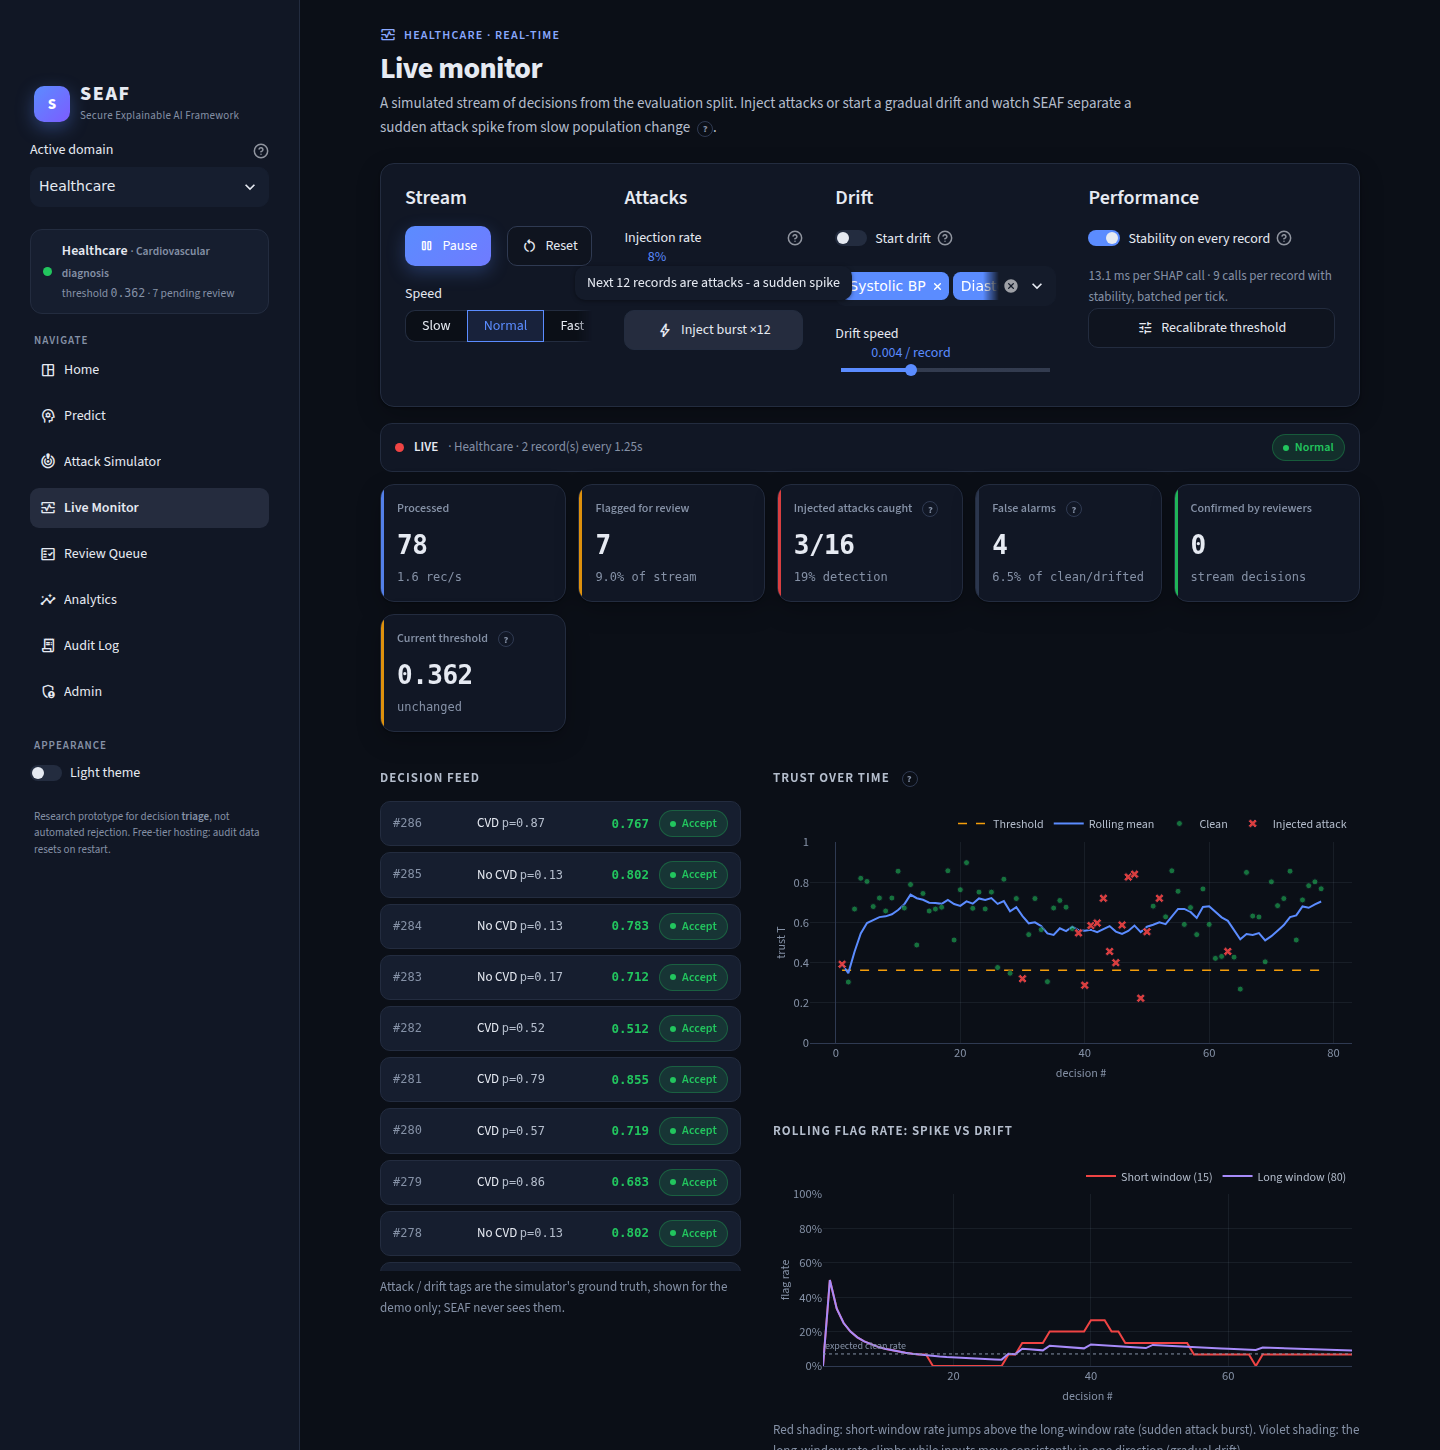
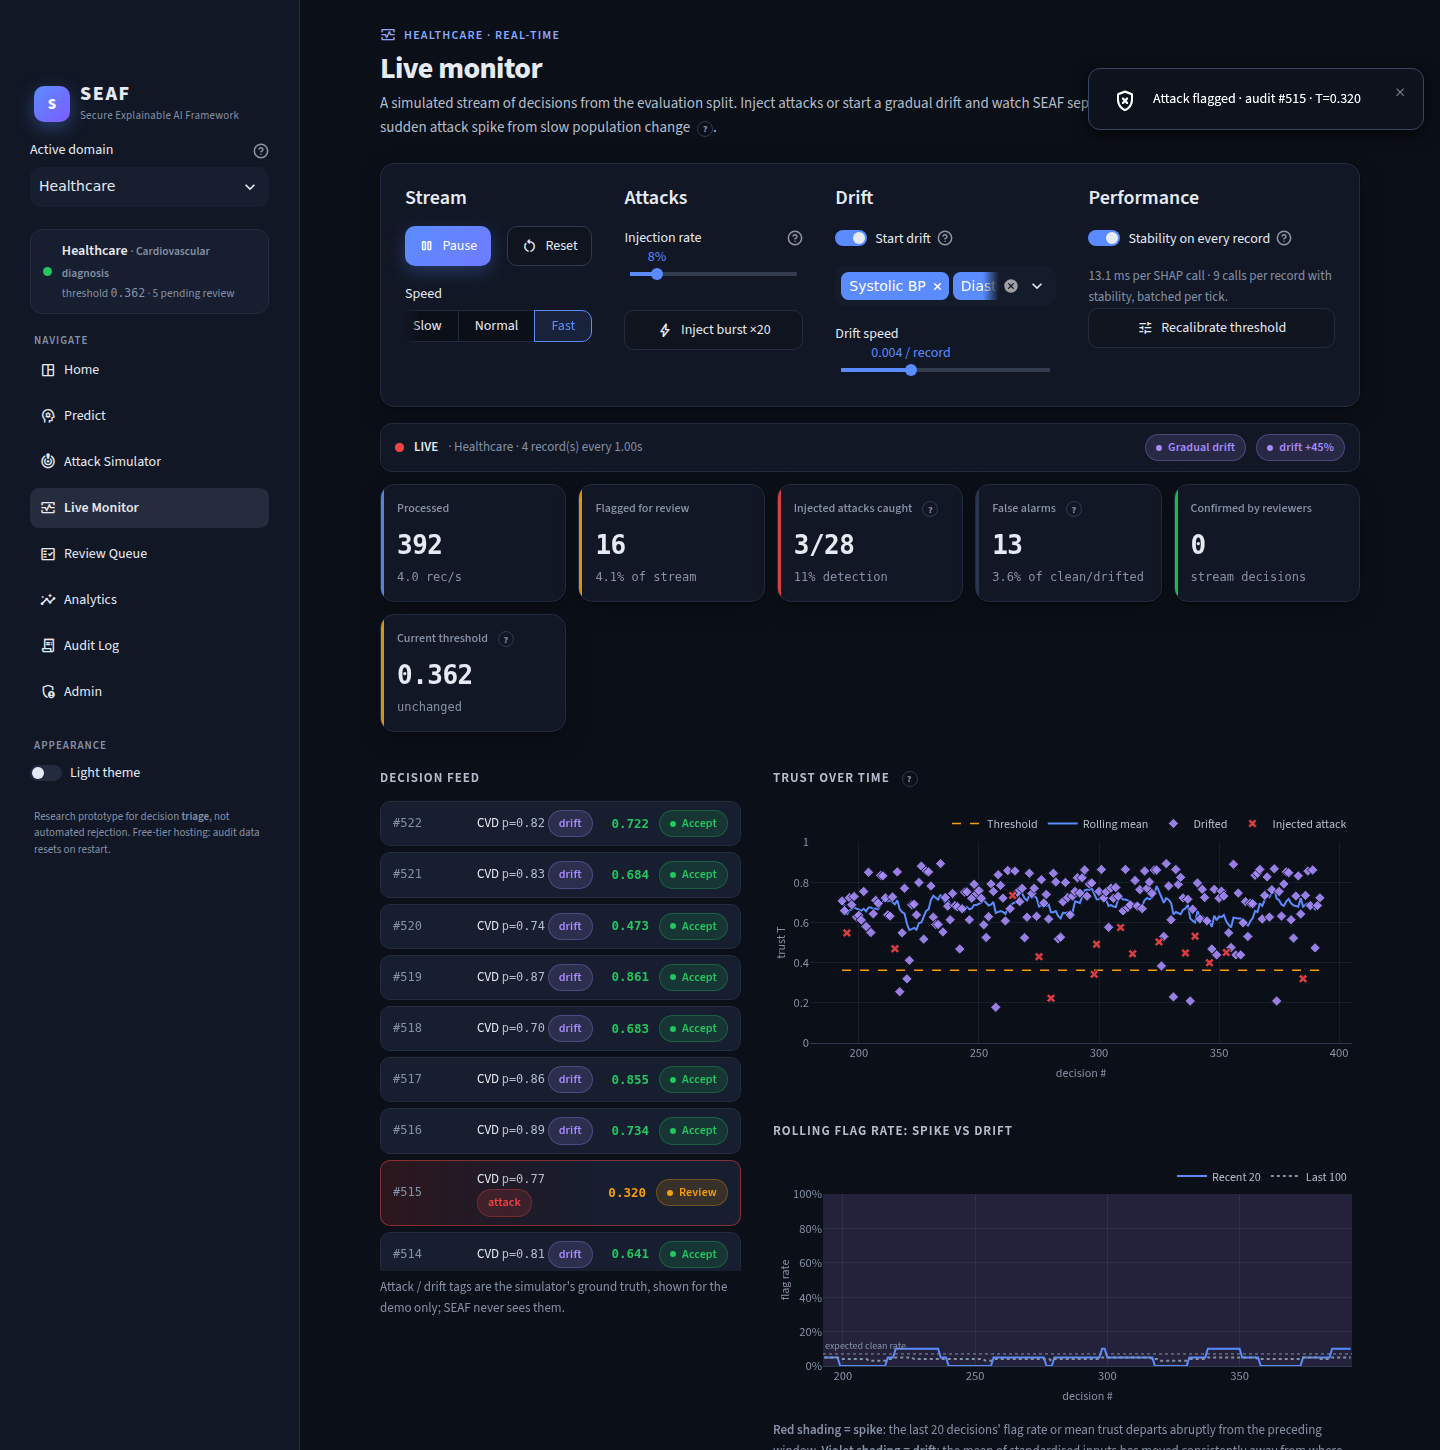
Calibrate live monitor with rank test and frozen drift reference; docs
- drift.py: spike = flag-rate jump or one-sided Mann-Whitney trust drop vs
  preceding window; drift = input mean shift vs stream start; 3-step debounce
- scripts/simulate_monitor.py + results/monitor_simulation.json
- writable runtime dir fallback (read-only app dirs in containers)
- smarter target guess on CSV upload; light-theme select fixes
- README: results vs paper, deployment limits, measured footprint

Claude-Session: https://claude.ai/code/session_01KLikfSptBZiFPSFT7Me5Lu

diff --git a/README.md b/README.md
@@ -91,6 +91,7 @@ scripts/
   run_experiments.py  reproduce the paper → results/experiments.json
   measure.py          memory / load-time / tree-count trade-off → results/deployment_metrics.json
   healthcheck.py      artifacts load, scoring works, DB writable (exit code)
+  simulate_monitor.py spike / drift monitor evaluation → results/monitor_simulation.json
 app.py, app_pages/    Streamlit multipage app (st.navigation), ui/ = design system + shared state
 assets/style.css      the single injected stylesheet; .streamlit/config.toml = theme
 ```
@@ -110,6 +111,7 @@ python scripts/train_all.py            # ~6 min on 4 CPU cores → artifacts/<do
 python scripts/run_experiments.py      # ~9 min → results/experiments.json, results/paper_reference.json
 python scripts/measure.py              # optional: memory and tree-count trade-off
 pytest -q                              # 32 tests
+python scripts/simulate_monitor.py     # optional: spike/drift monitor evaluation (~20 min)
 ```
 
 ## Library API
@@ -259,8 +261,10 @@ examiners. The dark theme is the default; there's a light theme toggle in the si
    appears; (4) *Confirm attack*; (5) the threshold recalibrates (0.419 → 0.674, held-out detection +13 pp, FPR cost
    shown).
 2. *Attack Simulator*: launch a few attacks. Some are caught, some slip through; explain triage vs automatic rejection.
-3. *Sidebar → Healthcare*, *Live Monitor → Start*, then *Inject burst ×20* (red spike shading, toast), then
-   *Start drift* on systolic/diastolic BP (violet drift shading once the shift is consistent).
+3. *Home → Healthcare card*, *Live Monitor → Start* (Fast): watch the "Attack flagged" toasts, then *Start drift*
+   on systolic/diastolic BP. After ~30–60 s the state badge turns **Gradual drift** and the chart shades violet.
+   *Inject burst ×20* can produce a red **spike** state, but not every time (see the simulation table: detection
+   is deliberately conservative).
 4. *Review Queue*: confirm or approve a few items and watch the threshold, detection and FPR deltas.
 5. *Analytics*: the reproduced tables vs the paper, including the stability inversion and the recruitment finding.
 
@@ -365,9 +369,22 @@ monitor spike detection, the paper's data shapes (1,508 cardio rows dropped, 7 c
   positives), so confirmed attacks can move the threshold. It never changes the baseline.
 * Contamination "level" = wrongly cleared attacks **appended** to the baseline, relative to baseline size.
 * The Live Monitor's temporal detector (`seaf/drift.py`) is an extension the paper names as future work. It
-  flags a *spike* when the recent flag rate or mean trust departs abruptly from the preceding window, and *drift*
-  when the mean of standardised inputs moves consistently from where the stream started. Random-sign attack edits
-  average out; population drift does not.
+  flags a *spike* when the recent flag rate jumps or recent trust is significantly lower than in the preceding
+  window (one-sided Mann-Whitney rank test, which stays calibrated for skewed trust distributions). It flags *drift*
+  when the mean of standardised inputs moves consistently away from where the stream started. States must hold for
+  3 consecutive decisions. Simulation (`python scripts/simulate_monitor.py` → `results/monitor_simulation.json`;
+  4 seeds × 260 decisions per scenario):
+
+  | Domain | False spike (clean runs) | False drift (clean runs) | Burst of 20 detected | Drift detected |
+  |---|---|---|---|---|
+  | Finance | 0/4 | 0/4 | 2/4 | 4/4 |
+  | Healthcare | 0/4 | 1/4 | 1/4 | 4/4 |
+  | Recruitment | 1/4 | 0/4 | 0/4 | 4/4 |
+
+  Drift detection is reliable. Burst detection is **conservative**: it is limited by how much lower an attacked
+  record's trust is on average (finance −0.06, healthcare −0.16, recruitment ≈0), so individual "attack flagged"
+  alerts remain the primary signal. Earlier versions that compared against baseline trust raised false spikes,
+  because baseline trust is in-sample for the Isolation Forest; the self-referencing rank test fixed that.
 
 ## Limitations
 * **Detection is moderate** (paired AUC ≈ 0.64–0.82 where it works, ≈ 0.5 for recruitment with a balanced model).
@@ -376,8 +393,8 @@ monitor spike detection, the paper's data shapes (1,508 cardio rows dropped, 7 c
   Detection quality depends on the protected model, as the paper notes.
 * One attack family (unaware black-box random search). An adaptive attacker that also minimises the anomaly score
   was not evaluated. The explainer is assumed honest (no scaffolding defence).
-* Burst detection in the monitor is only as good as per-record separation: clear in healthcare, weak in finance,
-  absent in recruitment.
+* Burst detection in the monitor is only as good as per-record separation (≈ 1 in 3 simulated 20-record bursts
+  caught overall, never in recruitment); drift is detected reliably.
 * Small evaluation samples (60 attacks per domain) give wide CIs; see the bootstrap and 5-seed spreads above.
 * Free-tier hosting: ephemeral state, cold starts after sleep, and one shared audit DB for all visitors.
 * TreeSHAP restricts the shipped models to tree ensembles; the library's interfaces are model-agnostic in principle.
